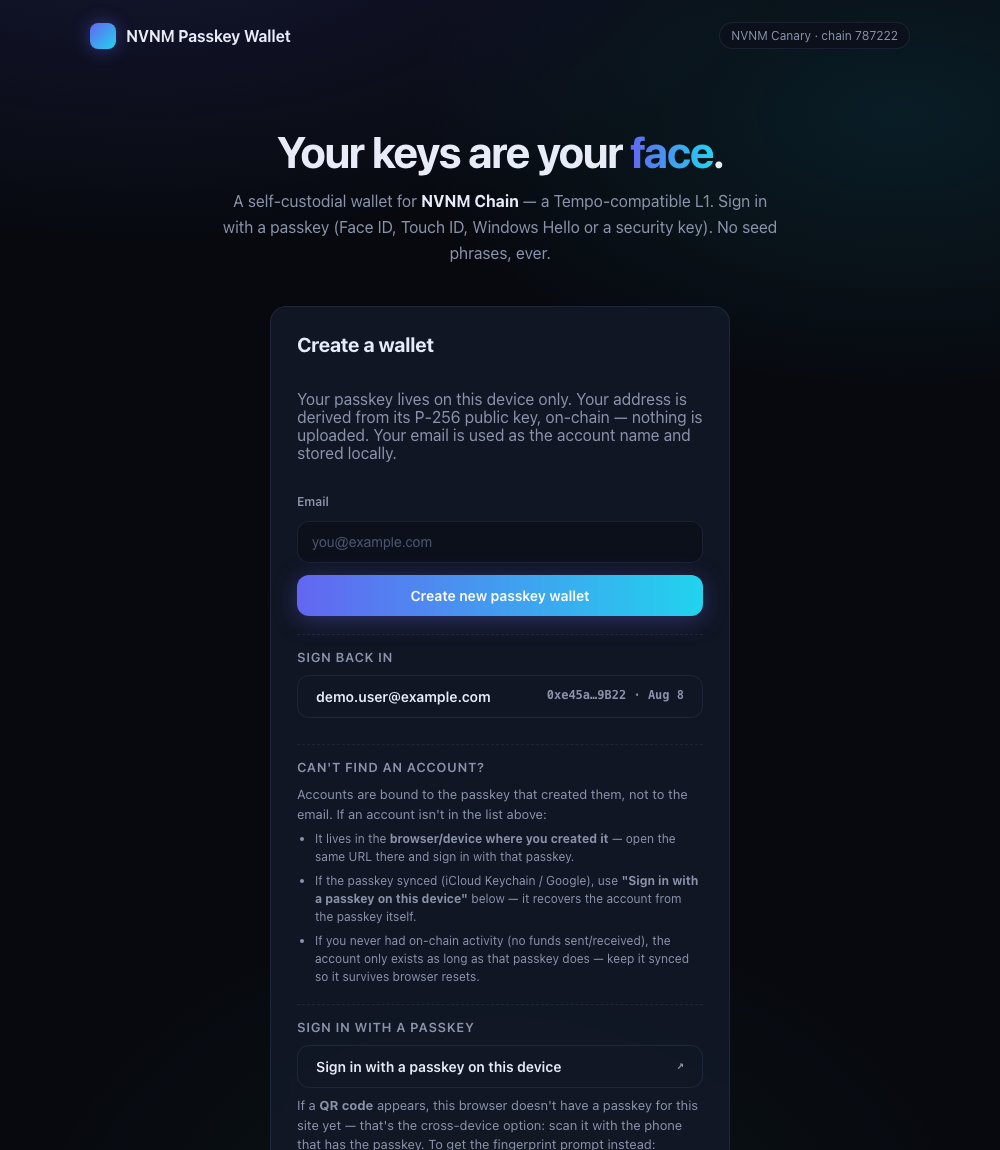
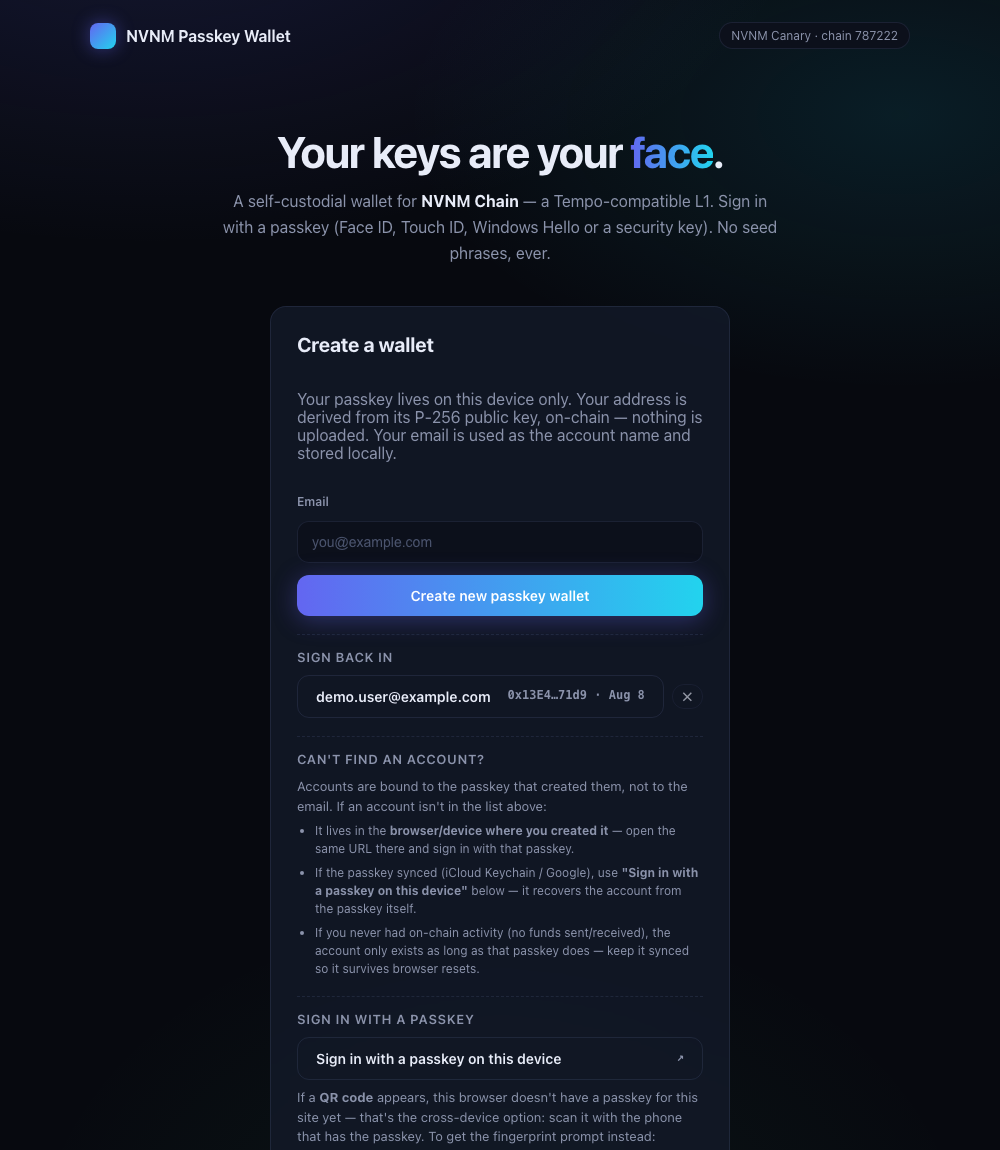
Sign-in list: source badges + per-entry remove
Two passkeys with the same email are two separate accounts — the list now
helps tell them apart and clean up:
- 'synced' badge on entries recovered cross-device (those are the ones that
  may fall back to a QR when the passkey isn't in this browser)
- each entry shows address + created date
- a remove (✕) button drops an entry from this browser's list without
  touching the passkey itself (recoverable via discoverable sign-in)

Changed region(s): [[0.279, 0.6391, 0.682, 0.8522], [0.279, 0.8826, 0.713, 1.0], [0.527, 0.5783, 0.682, 0.6087]]

diff --git a/src/components/ConnectScreen.tsx b/src/components/ConnectScreen.tsx
@@ -12,6 +12,7 @@ export function ConnectScreen({
   const [busy, setBusy] = useState<string | null>(null)
   const [error, setError] = useState<string | null>(null)
   const [email, setEmail] = useState('')
+  const [, setRefreshKey] = useState(0)
   const existing = keystore.listCredentials()
 
   async function handleCreate() {
@@ -65,6 +66,21 @@ export function ConnectScreen({
     } finally {
       setBusy(null)
     }
+  }
+
+  function handleRemove(c: keystore.StoredCredential) {
+    if (
+      !window.confirm(
+        `Remove ${c.email ?? c.label} (${shortAddress(
+          deriveAddress(c.publicKey),
+        )}) from this browser's list? The passkey itself is untouched — you can sign back in anytime with "Sign in with a passkey on this device".`,
+      )
+    )
+      return
+    keystore.removeCredential(c.id)
+    setError(null)
+    // force re-render to refresh the list
+    setRefreshKey((k) => k + 1)
   }
 
   return (
@@ -124,17 +140,31 @@ export function ConnectScreen({
             <div className="existing">
               <h3>Sign back in</h3>
               {existing.map((c) => (
-                <button
-                  key={c.id}
-                  className="btn ghost existing-row"
-                  onClick={() => handleLogin(c.id)}
-                  disabled={!!busy}
-                >
-                  <span className="existing-label">{c.email ?? c.label}</span>
-                  <span className="existing-meta">
-                    {shortAddress(deriveAddress(c.publicKey))} · {fmtDate(c.createdAt)}
-                  </span>
-                </button>
+                <div key={c.id} className="existing-row-wrap">
+                  <button
+                    className="btn ghost existing-row"
+                    onClick={() => handleLogin(c.id)}
+                    disabled={!!busy}
+                  >
+                    <span className="existing-label">
+                      {c.email ?? c.label}
+                      {c.source === 'recovered' && (
+                        <span className="badge">synced</span>
+                      )}
+                    </span>
+                    <span className="existing-meta">
+                      {shortAddress(deriveAddress(c.publicKey))} · {fmtDate(c.createdAt)}
+                    </span>
+                  </button>
+                  <button
+                    className="btn ghost tiny remove-btn"
+                    title="Remove this entry from this browser (does not delete the passkey)"
+                    onClick={() => handleRemove(c)}
+                    disabled={!!busy}
+                  >
+                    ✕
+                  </button>
+                </div>
               ))}
             </div>
           )}

diff --git a/src/styles.css b/src/styles.css
@@ -317,6 +317,40 @@ code,
   margin-bottom: 8px;
 }
 
+.existing-row-wrap {
+  display: flex;
+  align-items: center;
+  gap: 8px;
+}
+
+.existing-row-wrap .existing-row {
+  margin-bottom: 0;
+  flex: 1;
+}
+
+.remove-btn {
+  flex-shrink: 0;
+  opacity: 0.6;
+}
+
+.remove-btn:hover {
+  opacity: 1;
+}
+
+.badge {
+  display: inline-block;
+  margin-left: 8px;
+  font-size: 10px;
+  font-weight: 600;
+  text-transform: uppercase;
+  letter-spacing: 0.05em;
+  color: var(--accent-2);
+  border: 1px solid rgba(34, 211, 238, 0.35);
+  border-radius: 999px;
+  padding: 1px 7px;
+  vertical-align: 1px;
+}
+
 .existing-label {
   font-weight: 600;
 }

diff --git a/src/lib/passkey.ts b/src/lib/passkey.ts
@@ -56,6 +56,7 @@ export async function registerPasskey(email: string): Promise<WalletAccount> {
     rpId,
     label: normalized,
     email: normalized,
+    source: 'created',
     createdAt: Date.now(),
   })
 
@@ -156,6 +157,7 @@ export async function loginWithDiscoverablePasskey(): Promise<WalletAccount> {
     rpId,
     label,
     email: first.userHandle ?? '',
+    source: 'recovered',
     createdAt: Date.now(),
   })
 

diff --git a/src/lib/keystore.ts b/src/lib/keystore.ts
@@ -14,6 +14,8 @@ export type StoredCredential = {
   label: string
   email: string
   createdAt: number
+  /** Where this entry came from — helps explain cross-device behavior. */
+  source?: 'created' | 'recovered'
 }
 
 const KEY = 'nvnmchain:credentials:v1'
